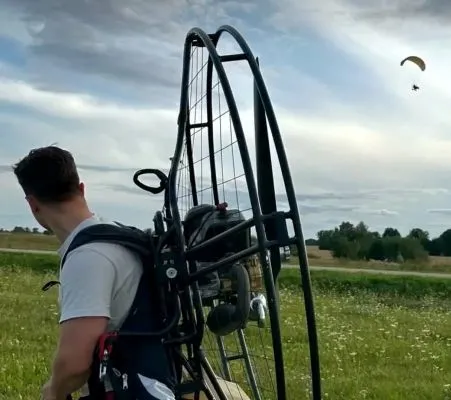
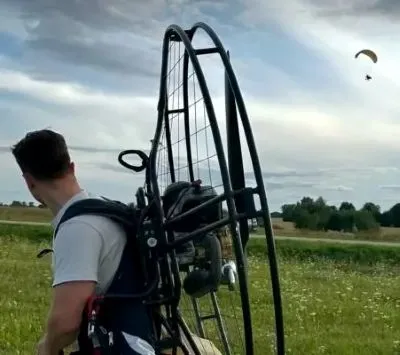
Update portfolio photo asset: Replace existing portfolioPhoto.webp with a new version for improved visual quality.

diff --git a/src/sections/summary/SummarySection.tsx b/src/sections/summary/SummarySection.tsx
@@ -1,9 +1,13 @@
 import { useEffect, useRef, useState } from 'react';
 import './SummarySection.scss';
 import portfolioPhoto from '../../assets/portfolioPhoto.webp';
+import portfolioPhotoDesktop from '../../assets/portfolioPhoto-desktop.webp';
 
-const PORTFOLIO_PHOTO_WIDTH = 902;
-const PORTFOLIO_PHOTO_HEIGHT = 800;
+/** Matches `breakpoints.$breakpoint-md` — desktop row layout uses a narrower image slot. */
+const PORTFOLIO_PHOTO_DESKTOP_MEDIA = '(min-width: 768px)';
+
+const PORTFOLIO_PHOTO_WIDTH = 400;
+const PORTFOLIO_PHOTO_HEIGHT = 355;
 
 export function SummarySection() {
   const imageRef = useRef<HTMLImageElement>(null);
@@ -22,18 +26,25 @@ export function SummarySection() {
           className={`summary__image-wrapper${imageLoaded ? ' summary__image-wrapper--loaded' : ''}`}
         >
           <div className="summary__image-skeleton" aria-hidden="true" />
-          <img
-            ref={imageRef}
-            className="summary__image"
-            src={portfolioPhoto}
-            width={PORTFOLIO_PHOTO_WIDTH}
-            height={PORTFOLIO_PHOTO_HEIGHT}
-            alt="Patrikas portrait"
-            loading="lazy"
-            decoding="async"
-            onLoad={() => setImageLoaded(true)}
-            onError={() => setImageLoaded(true)}
-          />
+          <picture>
+            <source
+              media={PORTFOLIO_PHOTO_DESKTOP_MEDIA}
+              srcSet={portfolioPhotoDesktop}
+              type="image/webp"
+            />
+            <img
+              ref={imageRef}
+              className="summary__image"
+              src={portfolioPhoto}
+              width={PORTFOLIO_PHOTO_WIDTH}
+              height={PORTFOLIO_PHOTO_HEIGHT}
+              alt="Patrikas portrait"
+              loading="lazy"
+              decoding="async"
+              onLoad={() => setImageLoaded(true)}
+              onError={() => setImageLoaded(true)}
+            />
+          </picture>
         </div>
         <div className="summary__text">
           <h3 className="summary__text-title">About Me</h3>

diff --git a/src/sections/summary/SummarySection.scss b/src/sections/summary/SummarySection.scss
@@ -101,6 +101,10 @@ $summary-ray-steps: (
   }
 }
 
+.summary__image-wrapper picture {
+  display: contents;
+}
+
 .summary__image-skeleton {
   position: absolute;
   inset: 0;
